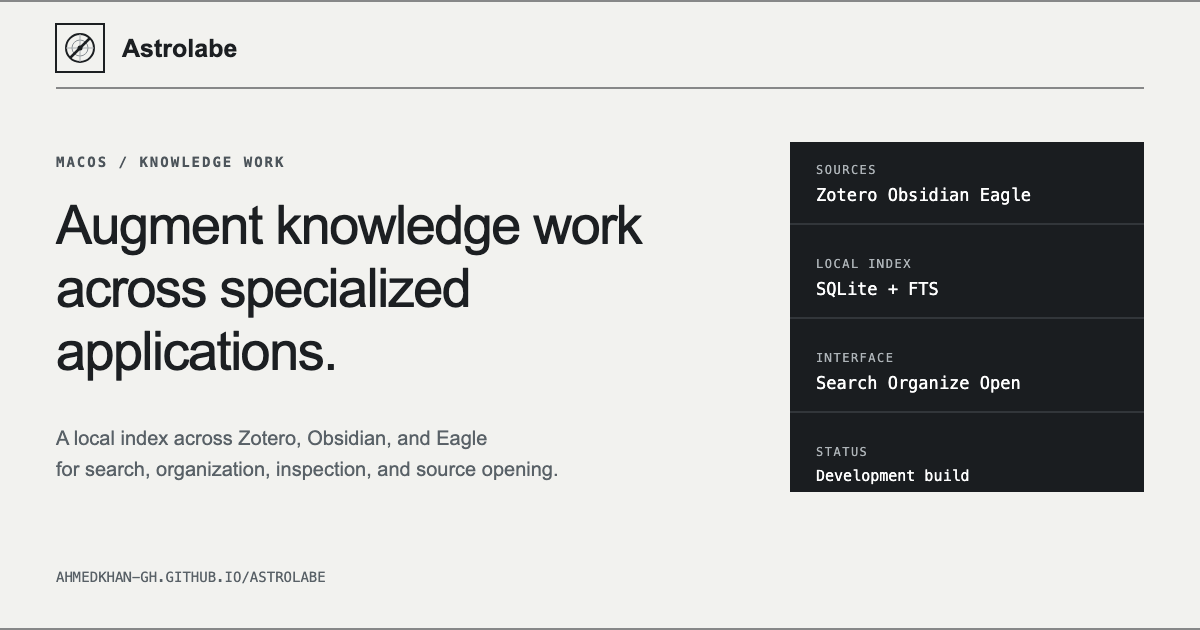
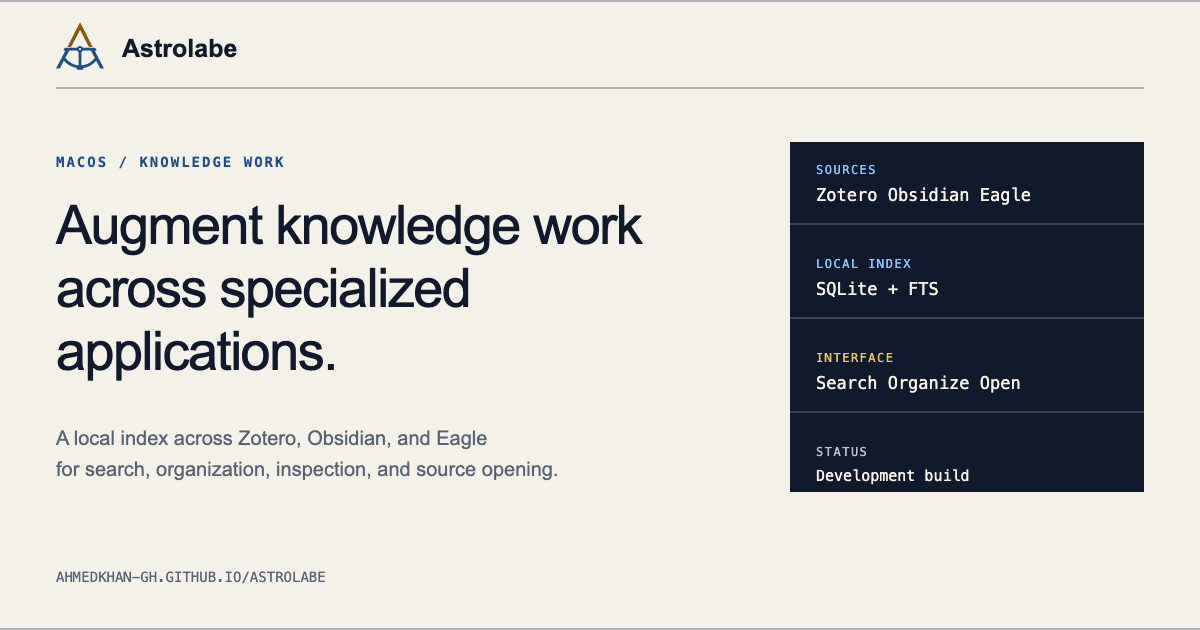
Refresh Astrolabe visual identity

diff --git a/site/assets/style.css b/site/assets/style.css
@@ -1,19 +1,26 @@
 :root {
-  --paper: #f2f2ef;
-  --paper-raised: #fafaf8;
-  --paper-muted: #e7e8e5;
-  --ink: #1c1f22;
-  --ink-soft: #363b40;
-  --muted: #61686e;
-  --faint: #858c91;
-  --line: #c4c8c9;
-  --line-dark: #34393d;
-  --inverse: #1a1d20;
-  --inverse-soft: #b8bdc1;
-  --link: #174b61;
+  --paper: #f4f1e8;
+  --paper-raised: #fcfaf4;
+  --paper-muted: #e7e2d5;
+  --ink: #101a2c;
+  --ink-soft: #2b3548;
+  --muted: #586276;
+  --faint: #747d8c;
+  --line: #b7b1a4;
+  --line-dark: #6a7080;
+  --inverse: #101a2c;
+  --inverse-soft: #bbc6d8;
+  --inverse-line: #60708c;
+  --inverse-text: #f8f4e9;
+  --link: #1d4e89;
+  --link-hover: #143a68;
+  --bearing: #8a5a0a;
+  --bearing-bright: #f1c56b;
+  --sky: #8fc6ff;
   --font-sans: Arial, "Helvetica Neue", Helvetica, sans-serif;
   --font-mono: "SFMono-Regular", Consolas, "Liberation Mono", monospace;
   --container: 74rem;
+  color-scheme: light;
 }
 
 *,
@@ -100,8 +107,8 @@ p {
 }
 
 ::selection {
-  color: #fff;
-  background: var(--ink);
+  color: var(--inverse-text);
+  background: var(--link);
 }
 
 :focus-visible {
@@ -120,8 +127,8 @@ p {
   left: 0.75rem;
   z-index: 100;
   padding: 0.55rem 0.8rem;
-  color: #fff;
-  background: var(--ink);
+  color: var(--inverse-text);
+  background: var(--link);
   transform: translateY(-180%);
 }
 
@@ -134,7 +141,7 @@ p {
   top: 0;
   z-index: 50;
   border-bottom: 1px solid var(--line-dark);
-  background: rgba(242, 242, 239, 0.97);
+  background: rgba(244, 241, 232, 0.97);
 }
 
 .header-inner {
@@ -197,12 +204,14 @@ p {
 }
 
 .button--primary {
-  color: #fff;
-  background: var(--ink);
+  color: var(--inverse-text);
+  border-color: var(--link);
+  background: var(--link);
 }
 
 .button--primary:hover {
-  background: #31363a;
+  border-color: var(--link-hover);
+  background: var(--link-hover);
 }
 
 .button--quiet:hover {
@@ -231,7 +240,7 @@ p {
 
 .section-label {
   margin-bottom: 1.1rem;
-  color: var(--ink-soft);
+  color: var(--link);
   font-family: var(--font-mono);
   font-size: 0.68rem;
   font-weight: 600;
@@ -291,11 +300,11 @@ p {
   display: inline-block;
   width: 0.5rem;
   height: 0.5rem;
-  background: var(--ink);
+  background: var(--bearing);
 }
 
 .system-strip {
-  color: #fff;
+  color: var(--inverse-text);
   border-block: 1px solid var(--ink);
   background: var(--inverse);
 }
@@ -323,7 +332,7 @@ p {
 }
 
 .flow-label {
-  color: var(--inverse-soft);
+  color: var(--sky);
   font-family: var(--font-mono);
   font-size: 0.63rem;
   letter-spacing: 0.1em;
@@ -331,7 +340,7 @@ p {
 }
 
 .system-flow strong {
-  color: #fff;
+  color: var(--inverse-text);
   font-size: 0.9rem;
   font-weight: 500;
 }
@@ -341,8 +350,12 @@ p {
   width: 4rem;
   place-items: center;
   color: var(--inverse-soft);
-  border-inline: 1px solid #43484c;
+  border-inline: 1px solid var(--inverse-line);
   font-family: var(--font-mono);
+}
+
+.system-flow > div:last-child .flow-label {
+  color: var(--bearing-bright);
 }
 
 .home-section,
@@ -396,7 +409,7 @@ p {
 .source-support > h3 {
   margin: 0;
   padding: 1.4rem;
-  color: #fff;
+  color: var(--inverse-text);
   background: var(--inverse);
   font-family: var(--font-mono);
   font-size: 0.72rem;
@@ -531,7 +544,7 @@ p {
 }
 
 .site-footer {
-  color: #fff;
+  color: var(--inverse-text);
   border-top: 1px solid var(--ink);
   background: var(--inverse);
 }
@@ -553,7 +566,11 @@ p {
 }
 
 .footer-compact a {
-  color: #fff;
+  color: var(--inverse-text);
+}
+
+.footer-compact a:hover {
+  color: var(--sky);
 }
 
 /* Documentation */
@@ -698,7 +715,7 @@ p {
   margin: 1.2rem 0;
   padding: 1rem;
   overflow-x: auto;
-  color: #f1f2f2;
+  color: var(--inverse-text);
   border: 1px solid var(--line-dark);
   background: var(--inverse);
   font-family: var(--font-mono);
@@ -1000,7 +1017,7 @@ kbd {
   .system-flow > div:first-child,
   .system-flow > div:last-child {
     padding: 1rem 0;
-    border-bottom: 1px solid #43484c;
+    border-bottom: 1px solid var(--inverse-line);
   }
 
   .system-flow > div:last-child {

diff --git a/site/index.html b/site/index.html
@@ -5,7 +5,7 @@
   <meta name="viewport" content="width=device-width, initial-scale=1">
   <title>Astrolabe — augment knowledge work across applications</title>
   <meta name="description" content="Astrolabe augments knowledge work across Zotero, Obsidian, and Eagle with a local index for search, organization, inspection, and source opening.">
-  <meta name="theme-color" content="#f2f2ef">
+  <meta name="theme-color" content="#f4f1e8">
   <meta name="color-scheme" content="light">
   <link rel="canonical" href="https://ahmedkhan-gh.github.io/astrolabe/">
   <link rel="icon" href="assets/mark.svg" type="image/svg+xml">

diff --git a/site/docs/index.html b/site/docs/index.html
@@ -7,7 +7,7 @@
       name="description"
       content="Documentation for Astrolabe: connect Zotero, Obsidian, and Eagle; build the local index; search, organize, inspect, and open source material."
     />
-    <meta name="theme-color" content="#f2f2ef" />
+    <meta name="theme-color" content="#f4f1e8" />
     <meta name="color-scheme" content="light" />
     <title>Documentation — Astrolabe</title>
     <link rel="canonical" href="https://ahmedkhan-gh.github.io/astrolabe/docs/" />

diff --git a/site/404.html b/site/404.html
@@ -4,7 +4,7 @@
   <meta charset="utf-8">
   <meta name="viewport" content="width=device-width, initial-scale=1">
   <meta name="robots" content="noindex">
-  <meta name="theme-color" content="#f2f2ef">
+  <meta name="theme-color" content="#f4f1e8">
   <meta name="color-scheme" content="light">
   <title>Page not found — Astrolabe</title>
   <link rel="icon" href="/astrolabe/assets/mark.svg" type="image/svg+xml">
